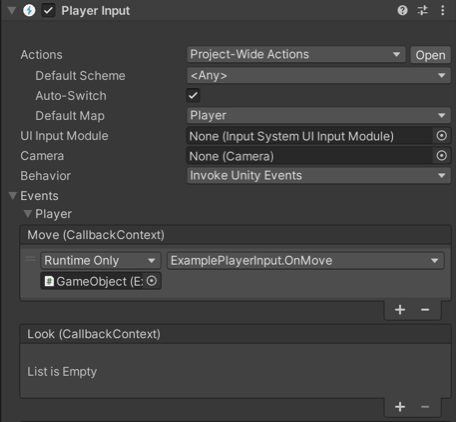
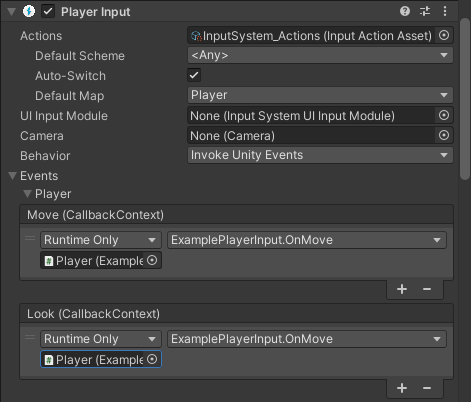
DOCS: ISX-1830 Improved PlayerInput manual documentation clarifying device assignment (#1864)
* ISX-1830 Improved clarity of PlayerInput component documentation around device assignment.

* Updated related screenshot.

---------

diff --git a/Packages/com.unity.inputsystem/Documentation~/PlayerInput.md b/Packages/com.unity.inputsystem/Documentation~/PlayerInput.md
@@ -142,9 +142,17 @@ In addition to per-action notifications, `PlayerInput` sends the following gener
 
 ### Device assignments
 
+If the `PlayerInput` component has any Devices assigned, it matches these to the [Control Schemes](ActionBindings.md#control-schemes) in the associated Action Asset, and only enables Control Schemes which match its Input Devices.
+
 Each `PlayerInput` can have one or more Devices assigned to it. By default, no two `PlayerInput` components are assigned the same Devices, but you can force this; to do so, manually assign Devices to a player when calling [`PlayerInput.Instantiate`](../api/UnityEngine.InputSystem.PlayerInput.html#UnityEngine_InputSystem_PlayerInput_Instantiate_UnityEngine_GameObject_System_Int32_System_String_System_Int32_UnityEngine_InputSystem_InputDevice_), or call [`InputUser.PerformPairingWithDevice`](../api/UnityEngine.InputSystem.Users.InputUser.html#UnityEngine_InputSystem_Users_InputUser_PerformPairingWithDevice_UnityEngine_InputSystem_InputDevice_UnityEngine_InputSystem_Users_InputUser_UnityEngine_InputSystem_Users_InputUserPairingOptions_) on the `InputUser` of a `PlayerInput`.
 
-If the `PlayerInput` component has any Devices assigned, it matches these to the [Control Schemes](ActionBindings.md#control-schemes) in the associated Action Asset, and only enables Control Schemes which match its Input Devices.
+### Debug information
+
+When the Editor is in Play mode, each PlayerInput component instance displays a **Debug** section, as shown below.
+
+![The debug section of the PlayerInput component](images/PlayerInputUserDeviceDebug.png)
+
+The Debug section shows the User number (which starts counting from zero), the control Scheme, and the devices assigned to the PlayerInput instance.
 
 ### UI input
 
